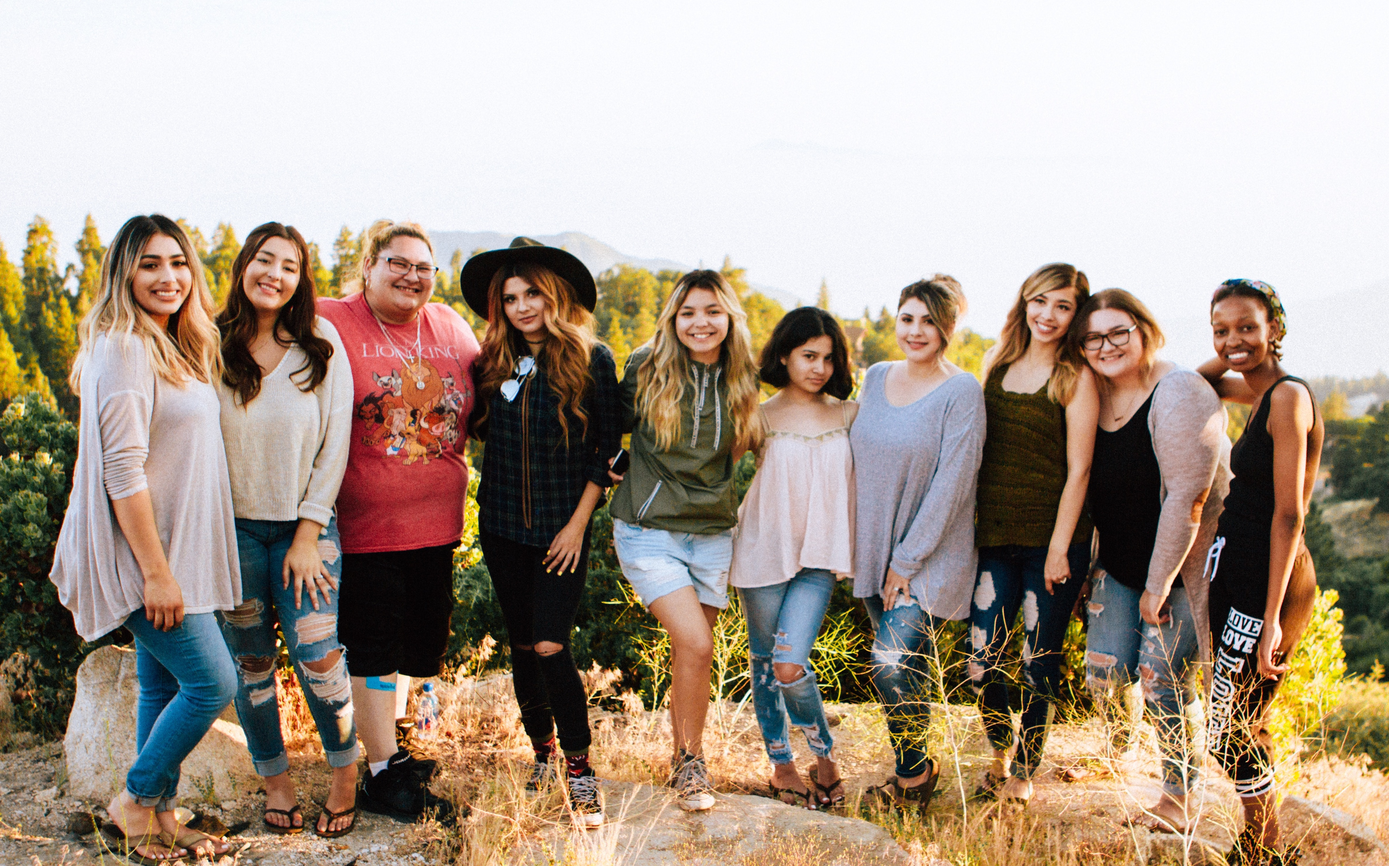
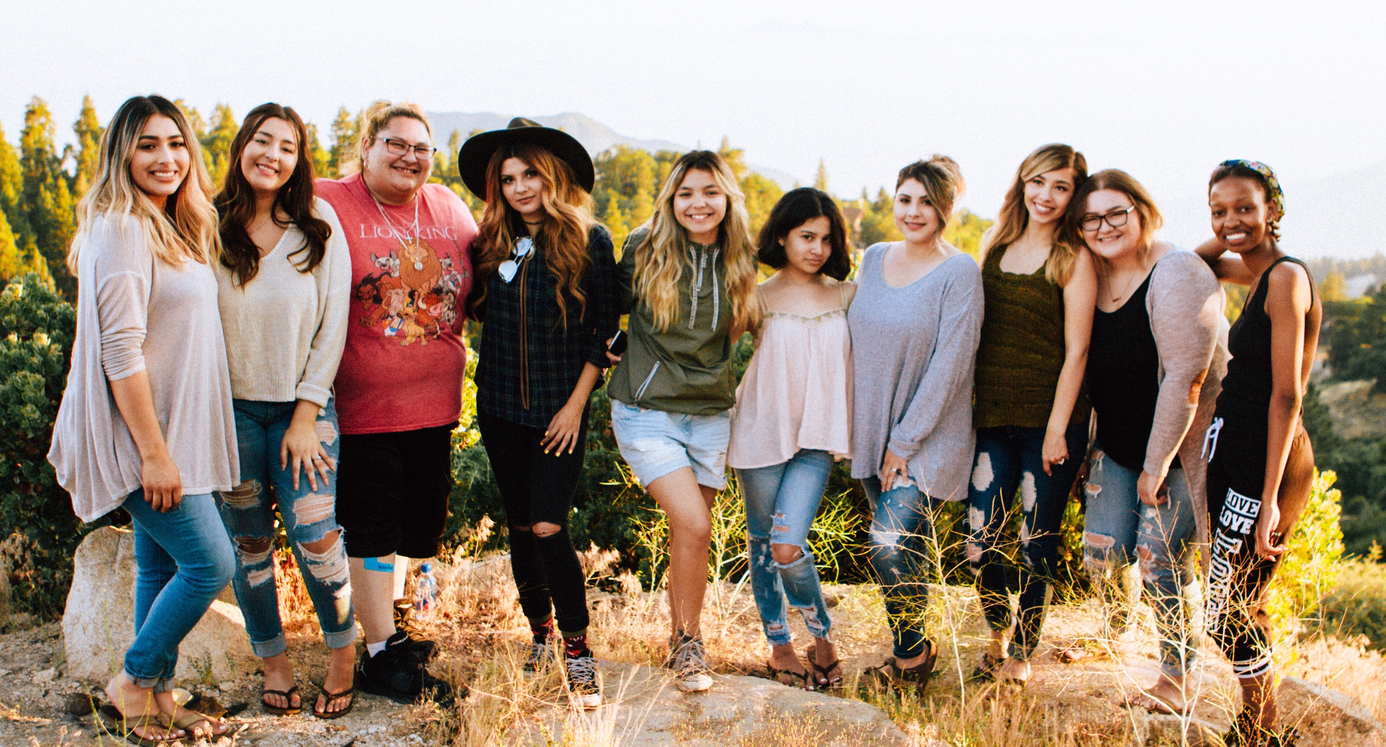
changed mobile view of home page - need to fix about blurb

diff --git a/src/features/activities/Activities.js b/src/features/activities/Activities.js
@@ -1,30 +1,49 @@
-import React from "react"
+import React, { Component } from "react"
+import { connect } from 'react-redux'
 import "./Activities.css"
-import BrickWallPic from "./BrickWallPic"
-import QuitoPic from "./QuitoPic"
 import EducationBlurb from "./EducationBlurb"
 import InternshipBlurb from "./InternshipBlurb"
 import EntrpeneurshipBlurb from "./EntrepreneurshipBlurb"
 
-const Activities = () => {
-	return (
-		<>
-			<BrickWallPic id="brick-wall-pic"/>
-			<QuitoPic />
+class Activities extends Component {
+	render(){
 
-			<div className="blurb education">
-				<EducationBlurb />
-			</div>
+		//need to DRY this up
+		let education
+		let internship
+		let entrepreneurship
 
-			<div className="blurb internship">
-				<InternshipBlurb />
-			</div>
+		if(this.props.size === "mobile"){
+			education = "blurb blurb-mobile education-mobile"
+			internship = "blurb blurb-mobile internship-mobile"
+			entrepreneurship = "blurb blurb-mobile entrepreneurship-mobile"
+		} else {
+			education = "blurb blurb-desktop education-desktop"
+			internship = "blurb blurb-desktop internship-desktop"
+			entrepreneurship = "blurb blurb-desktop entrepreneurship-desktop"
+		}
 
-			<div className="blurb entrepreneurship">
-				<EntrpeneurshipBlurb />
-			</div>
-		</>
-	)
+		return (
+			<>
+
+				<div className={education}>
+					<EducationBlurb />
+				</div>
+
+				<div className={internship}>
+					<InternshipBlurb />
+				</div>
+
+				<div className={entrepreneurship}>
+					<EntrpeneurshipBlurb />
+				</div>
+			</>
+		)
+
+	}
+
 }
 
-export default Activities
+const mapStateToProps = state => {  return {  size: state.size  } }
+
+export default connect(mapStateToProps)(Activities)

diff --git a/src/features/home/Home.js b/src/features/home/Home.js
@@ -1,4 +1,5 @@
 import React, { Component } from "react"
+import { connect } from 'react-redux'
 import "./Home.css"
 import AboutBlurb from "./AboutBlurb"
 import AboutBlurbES from "./AboutBlurbES"
@@ -6,39 +7,33 @@ import CoverPic from "./CoverPic"
 import Activities from "../activities/Activities"
 
 class Home extends Component {
-	constructor(props){
-		super(props)
-
-		this.state = {
-		language: "ES",
-		size: this.props.size
-	}
-}
-
 
 	render(){
-		console.log(this.state.size)
-		let about
-		this.state.language === "EN" ? about = <AboutBlurb /> : about = <AboutBlurbES />
+
+		let size
+		this.props.size === "mobile" ? size = "about-blurb about-blurb-mobile" : size = "about-blurb about-blurb-desktop"
 
 		return (
 			<>
 				<CoverPic />
 
-				<div className="about-blurb">
-					{about}
+				<div className={size}>
+					<AboutBlurb />
 				</div>
 
-				<div id="activities">
+				<div >
 					<Activities />
 				</div>
+
 			</>
 		)
 
 	}
 
-
-
 }
 
-export default Home
+const mapStateToProps = state => {  return {  size: state.size  } }
+
+export default connect(mapStateToProps)(Home)
+
+//this.state.language === "EN" ? about = <AboutBlurb /> : about = <AboutBlurbES />

diff --git a/src/features/home/Home.css b/src/features/home/Home.css
@@ -1,15 +1,13 @@
 /* home */
 
 .cover-pic {
-	position: relative;
+	position: absolute;
+	top: 15%;
 	width: 100%;
 	height: auto;
 	z-index: -1;
 }
 
-.top {
-		top: 0;
-}
 
 .banner {
 	position: absolute;
@@ -25,17 +23,22 @@
 
 .home-headline {
 	font-family: "Bree Serif", serif;
-	font-size: 2vw;
 	color: rgb(8, 37, 78);
 	font-weight: bold;
 	text-align: center;
 	margin-bottom: 3%;
+}
 
+.home-headline-desktop {
+		font-size: 2vw;
+}
+
+.home-headline-mobile {
+		font-size: 1vw;
 }
 
 .empower {
 	font-size: 2vw;
-
 }
 
 .activities {
@@ -46,12 +49,38 @@
 }
 
 .about-blurb {
-	position: fixed;
+	position: absolute;
+	text-align: center;
+	background-color: rgb(255, 255, 255, 0.8);
+	border: 3px solid rgb(197, 158, 85);
+}
+
+.about-blurb-desktop {
 	top: 60%;
 	left: 15%;
 	width: 70%;
-	text-align: center;
-	background-color: rgb(255, 255, 255, 0.8);
 	border-radius: 85px;
-	border: 3px solid rgb(197, 158, 85);
+}
+
+.about-blurb-mobile{
+	top: 42%;
+	left: 5%;
+	right: 5%;
+	width: 90;
+	border-radius: 35px;
+}
+
+.bubble p,
+a {
+	font-size: 1vw;
+}
+
+.bubble h1 {
+	font-size: 3vw;
+	color: rgb(8, 37, 78);
+}
+
+.bubble h2 {
+	font-size: 1.5vw;
+	color: rgb(8, 37, 78);
 }

diff --git a/src/features/home/AboutBlurb.js b/src/features/home/AboutBlurb.js
@@ -1,11 +1,17 @@
-import React from 'react'
+import React, { Component } from 'react'
+import { connect } from 'react-redux'
 
-const AboutBlurb = () => {
+class AboutBlurb extends Component {
+  render(){
+
+    let headlineStyle
+    this.props.size === "mobile" ? headlineStyle = "home-headline home-headline-mobile" : headlineStyle = "home-headline home-headline-desktop"
+
 
     return (
         <div className="bubble">
           <br/>
-          <div className="home-headline empower">
+          <div className={headlineStyle}>
             We empower the women of Ecuador by teaching them to code.
           </div>
 
@@ -19,7 +25,13 @@ const AboutBlurb = () => {
         </div>
     )
 
+  }
+
+
+
 
 }
 
-export default AboutBlurb
+const mapStateToProps = state => {  return {  size: state.size  } }
+
+export default connect(mapStateToProps)(AboutBlurb)

diff --git a/src/features/activities/Activities.css b/src/features/activities/Activities.css
@@ -2,27 +2,52 @@
 
 .blurb {
 	position: absolute;
-	width: 45%;
 	text-align: center;
 	background-color: rgb(255, 255, 255, 0.8);
+}
+
+.blurb-desktop {
+	width: 45%;
 	border-radius: 105px;
 	border: 3px solid rgb(197, 158, 85);
 	padding: 2%;
-
 }
 
-.education {
-	top: 145%;
-	left: 45%;
+.blurb-mobile {
+	width: 90%;
+	border-radius: 45px;
+	border: 2px solid rgb(197, 158, 85);
+	padding: 1%;
 }
 
-.internship {
-	top: 215%;
-	left: 15%;
-
+.education-desktop {
+	top: 115%;
+	left: 5%;
 }
 
-.entrepreneurship {
-	top: 280%;
-	left: 45%;
+.education-mobile{
+	top: 65%;
+	left: 5%;
+}
+
+.internship-desktop{
+	top: 160%;
+	left: 25%;
+}
+
+.internship-mobile{
+	top: 85%;
+	left: 5%;
+}
+
+.entrepreneurship-desktop {
+	top: 205%;
+	left: 50%;
+	margin-bottom: 5%;
+}
+
+.entrepreneurship-mobile {
+	top: 105%;
+	left: 5%;
+	margin-bottom: 5%;
 }

diff --git a/src/features/activities/EntrepreneurshipBlurb.js b/src/features/activities/EntrepreneurshipBlurb.js
@@ -11,7 +11,6 @@ const EntrepreneurshipBlurb = () => {
           With our organization’s mission always in mind, we strive to find new strategies to reach our goal. To preserve Ecuador's beautiful culture of entrepreneurship, Código Ecuador works to tear down walls, pave roads to resources, and encourage women to build opportunity. Contact us to learn more about how we make this happen.
           </p>
           <br/>
-          <br/>
           <button className="donate-button" >
             <a href='mailto:info@codigoecuador.com' >
               Get in Touch

diff --git a/src/App.js b/src/App.js
@@ -39,7 +39,7 @@ class App extends Component {
 
 			let isMobile
 			const width = this.state.width
-			width <= 760 ? isMobile = true : isMobile = false
+			width <= 1025 ? isMobile = true : isMobile = false
 
 			let size
 			isMobile ? size = "mobile" :  size = "desktop"

diff --git a/src/features/about/About.css b/src/features/about/About.css
@@ -24,20 +24,7 @@
 	padding: 2%;
 }
 
-.bubble p,
-a {
-	font-size: 1vw;
-}
 
-.bubble h1 {
-	font-size: 3vw;
-	color: rgb(8, 37, 78);
-}
-
-.bubble h2 {
-	font-size: 1.5vw;
-	color: rgb(8, 37, 78);
-}
 
 .ceo-letter {
 	position: absolute;

diff --git a/src/features/navbar/NavBar.css b/src/features/navbar/NavBar.css
@@ -5,7 +5,7 @@
 	font-weight: bolder;
 	height: auto;
 	margin: auto;
-	width: 100%;
+	width: 50%;
 	max-width: 40%;
 	z-index: 3;
 }
